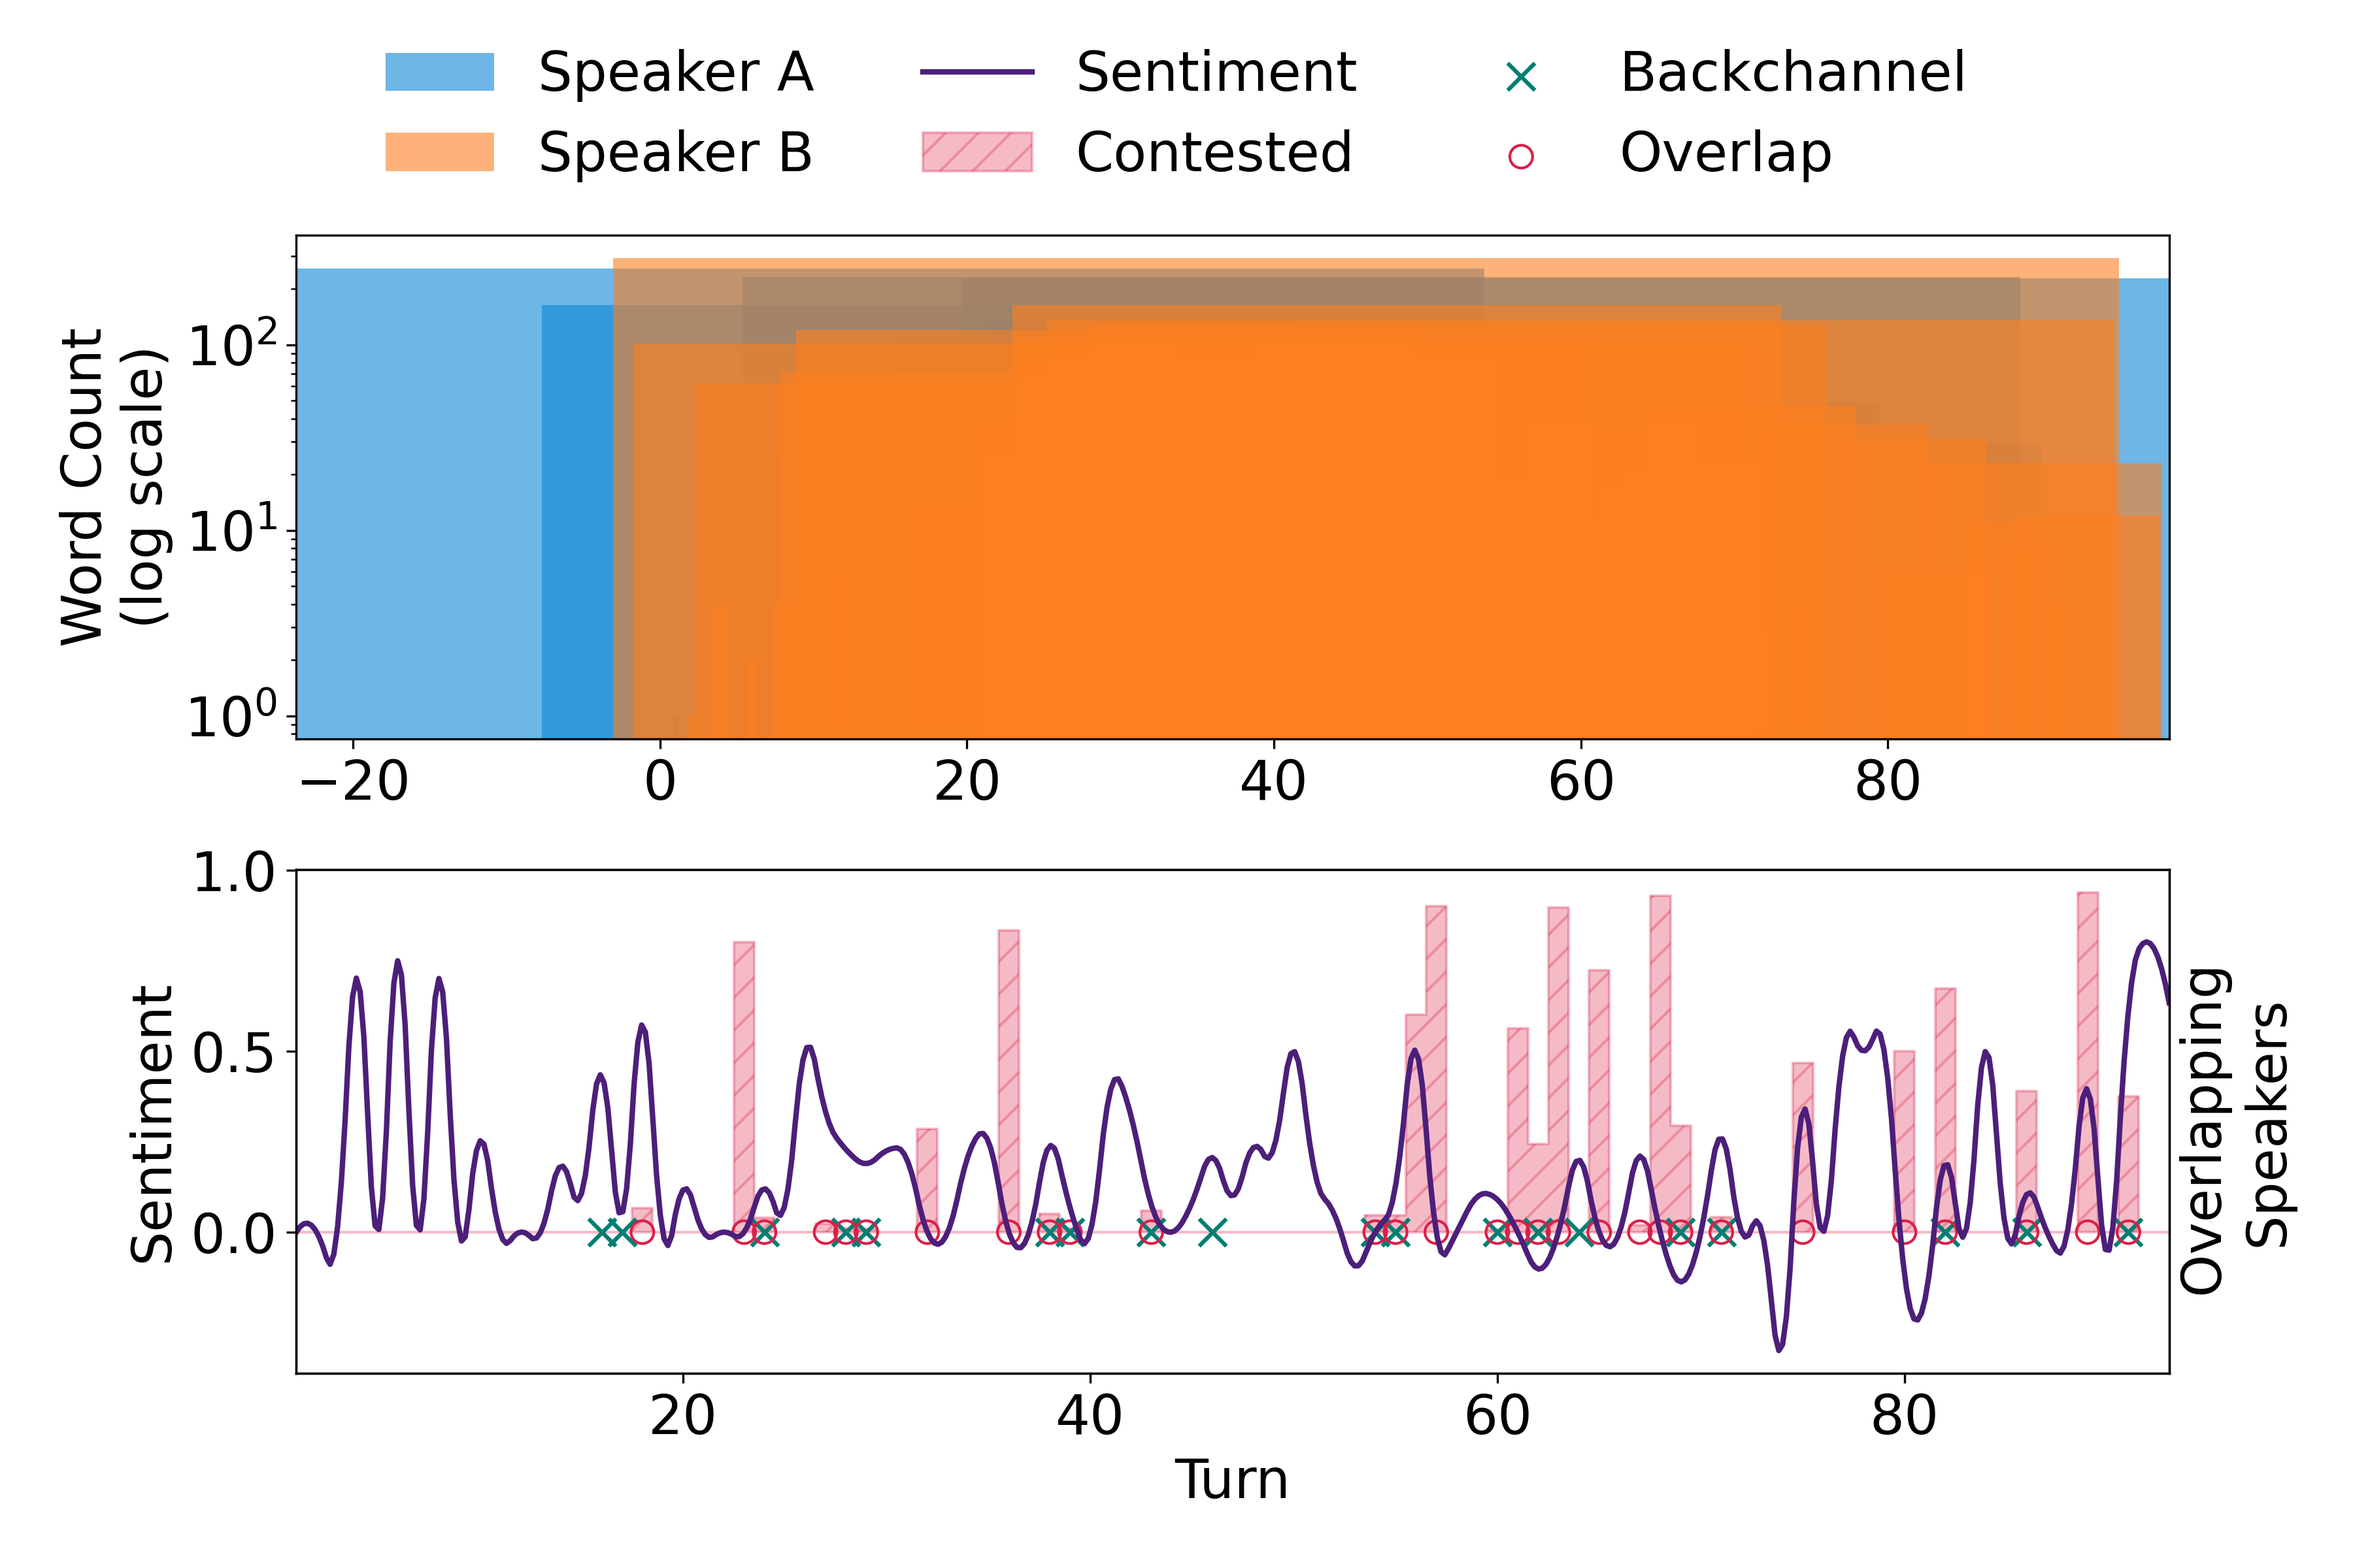
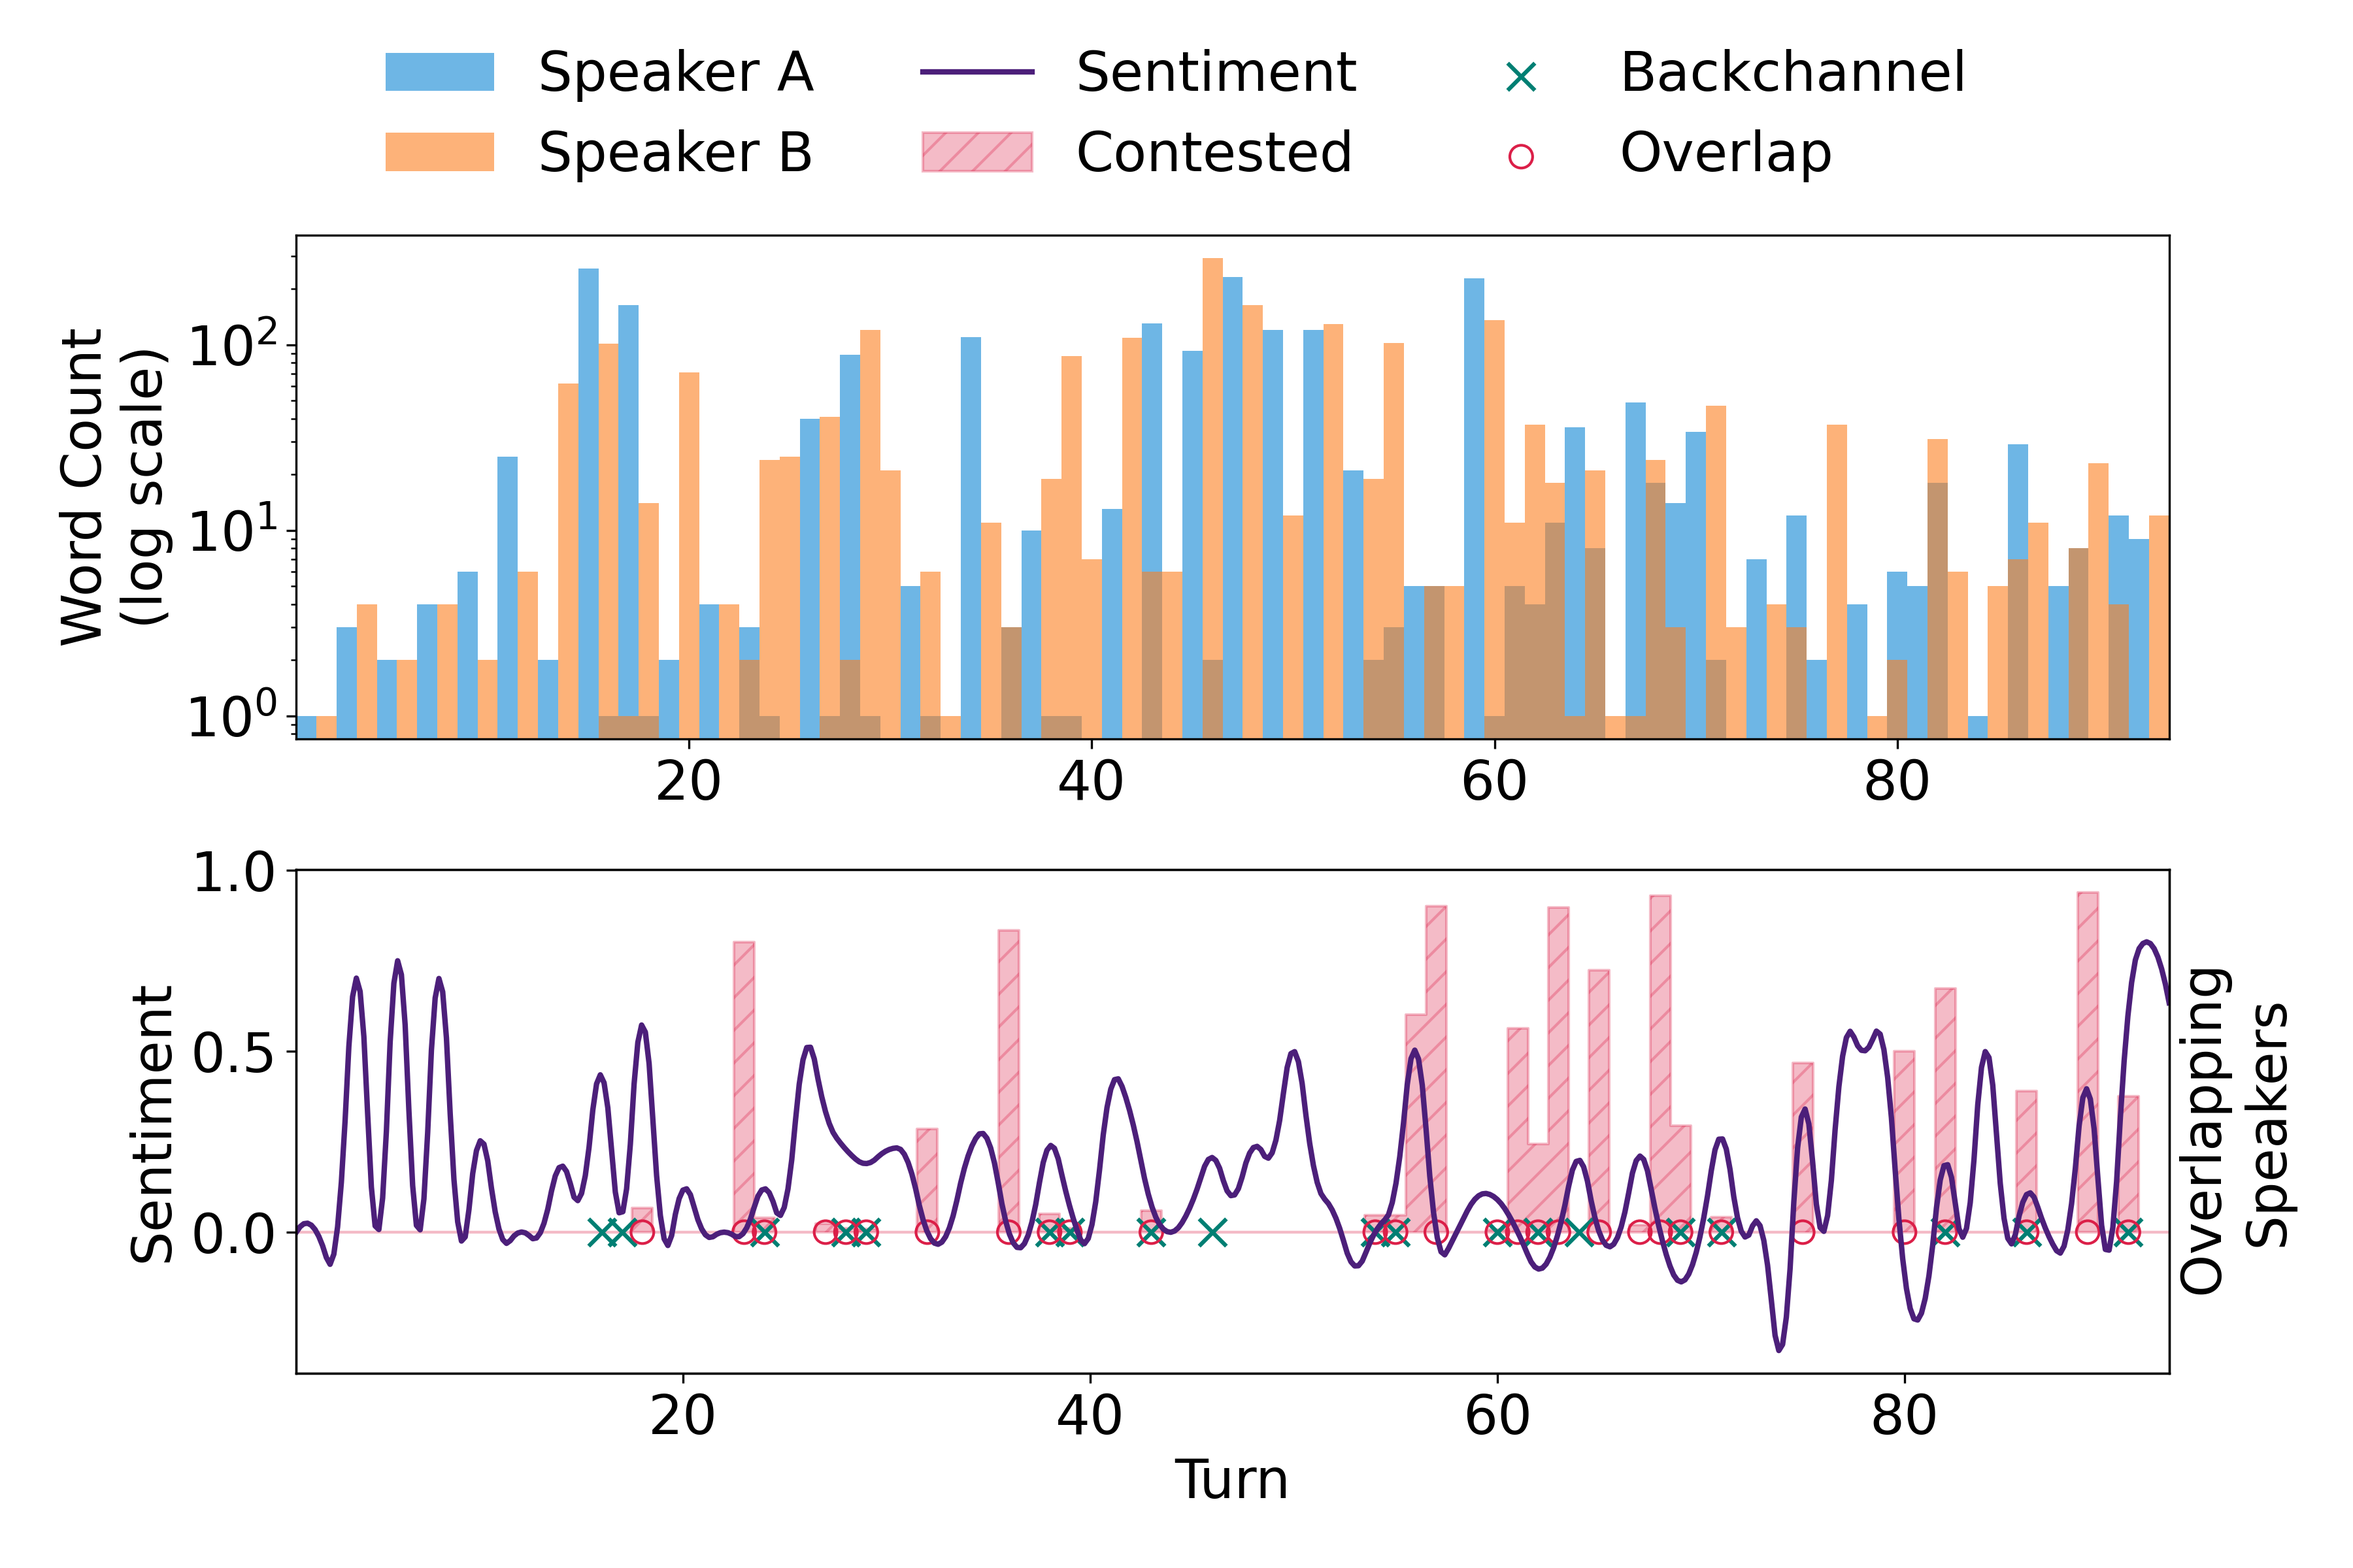
xxxx

Changed region(s): [[0.1244, 0.1562, 0.9333, 0.5312]]

diff --git a/Python/sentiment_time_plot.py b/Python/sentiment_time_plot.py
@@ -68,8 +68,8 @@ def plot_sentiment_time_series(word_level_data, file):
         turn_speaker_data_A[x_var], 
         turn_speaker_data_A['avg_word_count'],
         align = 'center',
-        width = turn_speaker_data_A['Turn_duration'],
-        # width = 1,
+        # width = turn_speaker_data_A['Turn_duration'],
+        width = 1,
         edgecolor='none',
         label="Speaker A",
         color=speaker_palette[0],
@@ -81,8 +81,8 @@ def plot_sentiment_time_series(word_level_data, file):
         turn_speaker_data_B[x_var], 
         turn_speaker_data_B['avg_word_count'],
         align = 'center',
-        width = turn_speaker_data_B['Turn_duration'],
-        # width = 1,
+        # width = turn_speaker_data_B['Turn_duration'],
+        width = 1,
         edgecolor='none',
         label="Speaker B",
         color=speaker_palette[1],
